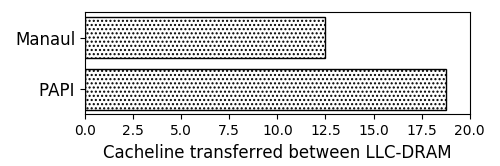
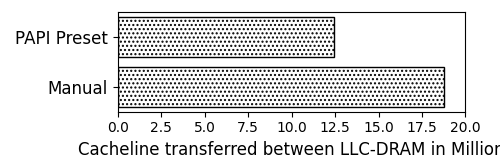
added stream method

diff --git a/vecmul_cpu/graph/stream-method.py b/vecmul_cpu/graph/stream-method.py
@@ -1,0 +1,82 @@
+import random 
+import matplotlib
+import matplotlib.pyplot as plt
+from matplotlib import style
+
+import numpy as np
+import matplotlib.patches as mpatches
+
+
+labels = ['Actual', 'Broadwell']
+#labels = ['Actual', 'Broadwell', '5123 | 4', '345 | 12']
+read = [12.5, 13.17]
+#time = [52.3626,71.0796,107.572,122.252 ]
+write = [6.25, 6.83]
+total = [18.75, 20.00]
+#energy = [751.589, 1057.12, 889.84, 1143.66]
+
+x = np.arange(len(labels))  # the label locations
+
+width = 0.35  # the width of the bars
+
+fig = plt.figure()
+
+fig.set_size_inches(7, 5)
+
+ax = fig.add_subplot(131)
+ax1 = fig.add_subplot(132)
+ax2 = fig.add_subplot(133)
+#ax2 = fig.add_subplot(132)
+
+#rects1 = ax.bar(x, stand_alone, width, label='Stand Alone')
+#rects1 = ax.bar(x - width/2, stand_alone, width, color='cornflowerblue')
+#rects1 = ax.bar(x,time, width)
+rects1 = ax.bar(x,read, width, hatch='....', color='white', edgecolor='black')
+#rects1 = ax.bar(x - width/2, stand_alone, width, label='Stand Alone')
+#rects2 = ax.bar(x, collocated, width, label='Collocated')
+#rects2 = ax.bar(x + width/2, collocated, width, color='orange')
+#rects2 = ax.bar(x + width/2, collocated, width, label='Collocated')
+
+# Add some text for labels, title and custom x-axis tick labels, etc.
+ax.set_ylabel('Traffic in Million', fontsize=12)
+ax.set_title('Read', fontsize=18)
+ax.set_xticks(x)
+ax.set_xticklabels(labels, fontsize=12,)
+#ax.set_xticklabels(labels, fontsize=12, rotation='vertical')
+#ax.legend(loc=1, bbox_to_anchor=(0.5, 0., 0.5, 0.99))
+
+
+x = np.arange(len(labels))  # the label locations
+
+width = 0.35  # the width of the bars
+
+rects1 = ax1.bar(x, write, width, hatch='////', color='white', edgecolor='black')
+
+# Add some text for labels, title and custom x-axis tick labels, etc.
+ax1.set_ylabel('Traffic in Million', fontsize=12)
+ax1.set_title('Write', fontsize=18)
+ax1.set_xticks(x)
+ax1.set_xticklabels(labels, fontsize=12)
+#ax1.set_xticklabels(labels, fontsize=12, rotation='vertical')
+#ax1.legend(loc=1, bbox_to_anchor=(0.5, 0., 0.5, 0.99))
+
+
+
+x = np.arange(len(labels))  # the label locations
+
+width = 0.35  # the width of the bars
+
+rects2 = ax2.bar(x, total, width, hatch='**', color='white', edgecolor='black')
+
+# Add some text for labels, title and custom x-axis tick labels, etc.
+ax2.set_ylabel('Traffic in Million', fontsize=12)
+ax2.set_title('Total', fontsize=18)
+ax2.set_xticks(x)
+ax2.set_xticklabels(labels, fontsize=12)
+
+
+fig.subplots_adjust(wspace=.5)
+plt.tight_layout()
+plt.show()
+fig.savefig('method-stream.png', dpi=100)
+

diff --git a/vecmul_cpu/graph/stream_plot.py b/vecmul_cpu/graph/stream_plot.py
@@ -12,7 +12,7 @@ fig, ax = plt.subplots()
 
 fig.set_size_inches(5, 2)
 
-labels = ['Manaul', 'PAPI']
+labels = ['PAPI Preset', 'Manual']
 traffic = [12.46, 18.75]
 
 y_pos = np.arange(len(labels))  # the label locations
@@ -20,7 +20,7 @@ y_pos = np.arange(len(labels))  # the label locations
 ax.barh(y_pos, traffic, hatch='....', color='white', edgecolor='black')
 #rects1 = plt.bar(x, traffic, .8, hatch='....', color='white', edgecolor='black')
 
-ax.set_xlabel('Cacheline transferred between LLC-DRAM', fontsize=12)
+ax.set_xlabel('Cacheline transferred between LLC-DRAM in Million', fontsize=12)
 #plt.title('', fontsize=18)
 ax.set_yticks(y_pos)
 ax.set_yticklabels(labels, fontsize=12)
